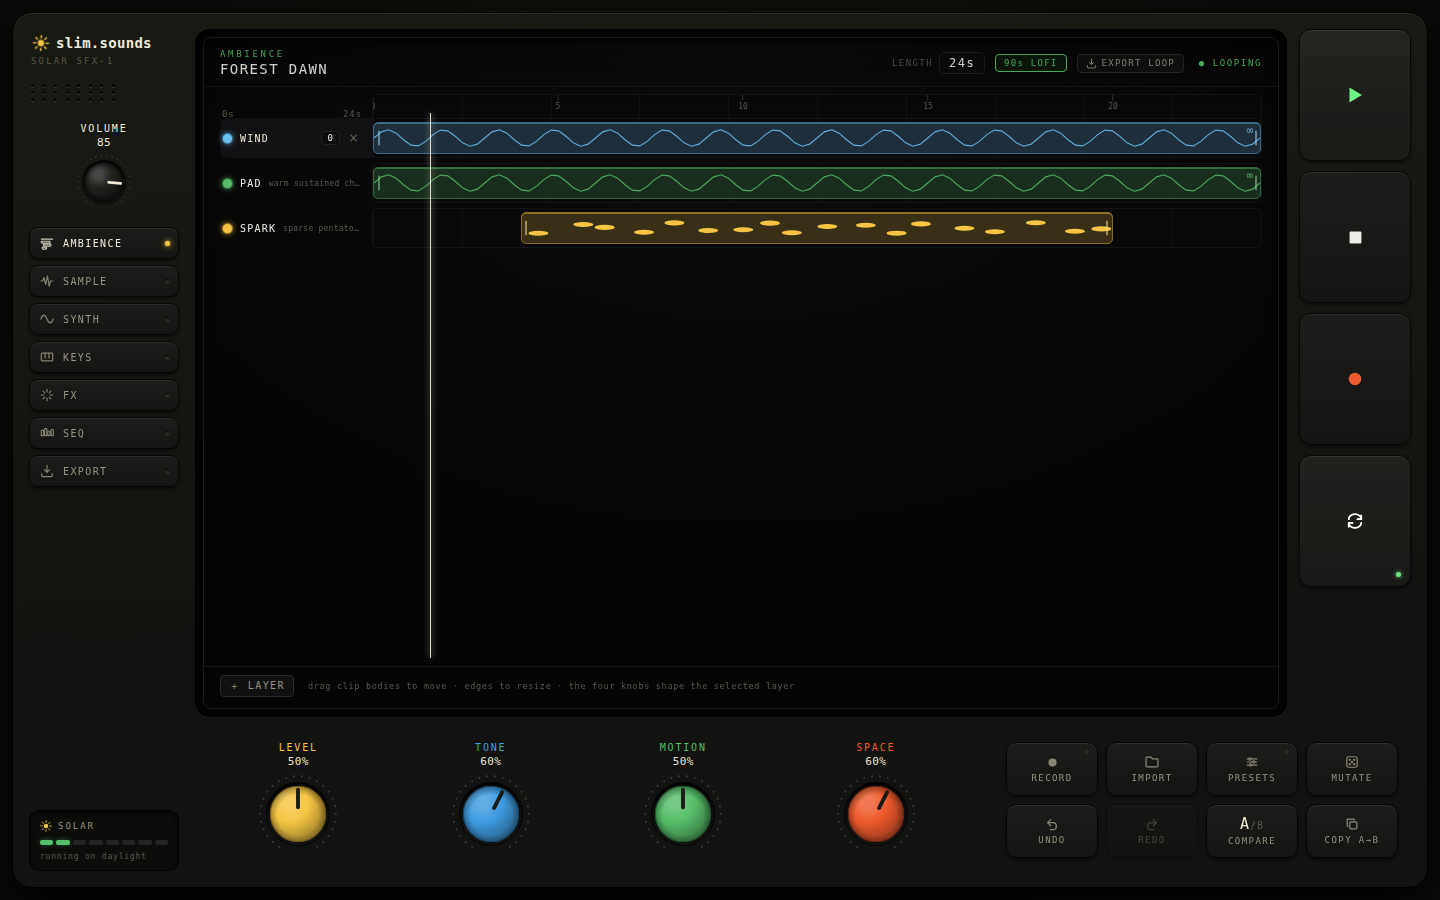
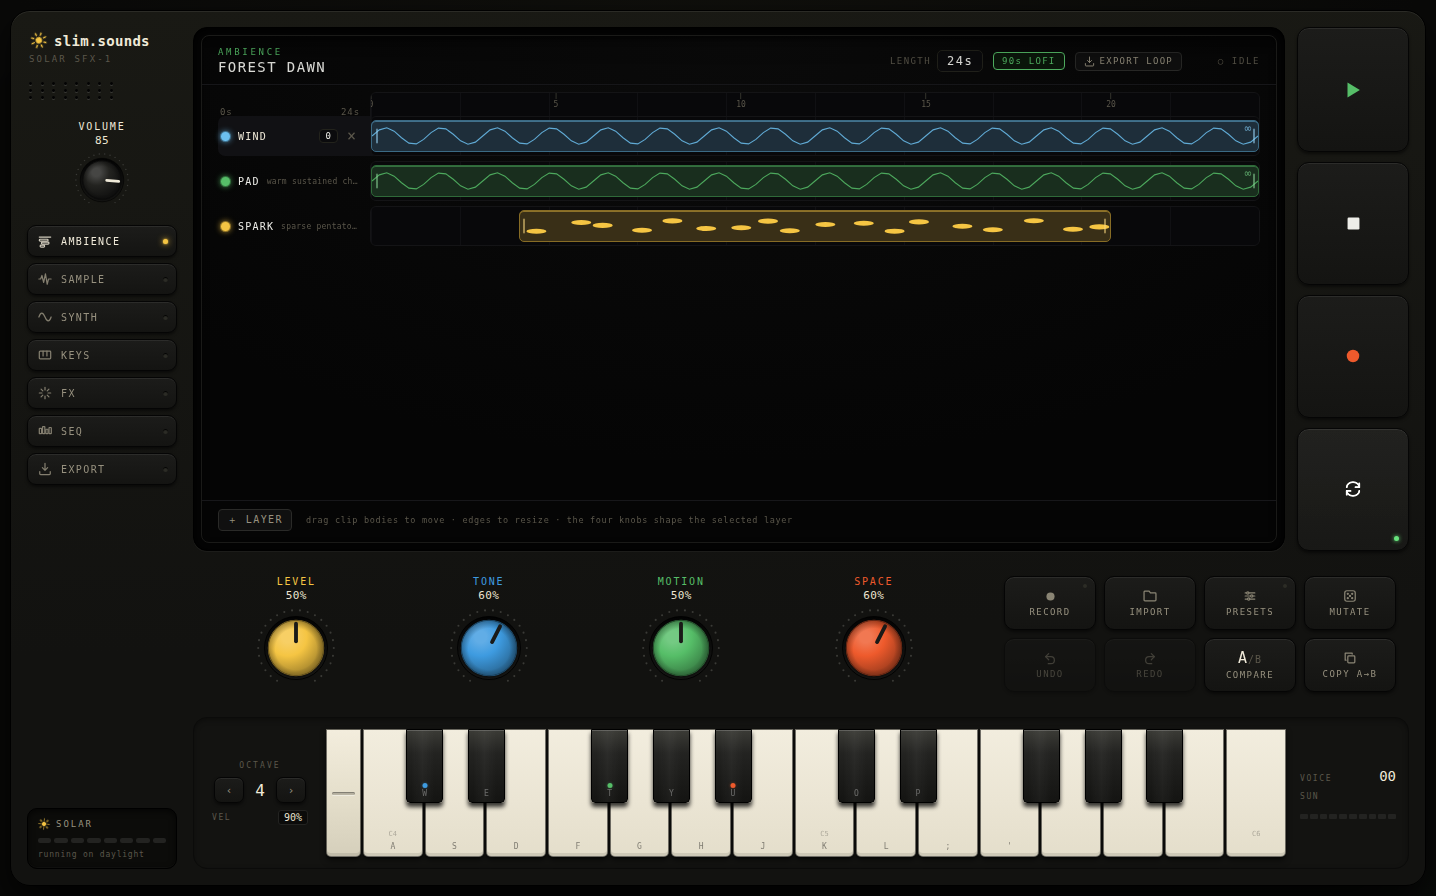
Keep the piano keyboard in AMBIENCE mode
The keyboard was hidden in ambient mode; restore it. In AMBIENCE the piano
now auditions the SELECTED layer at the played pitch — a held key builds
that layer's voice (continuous types sustain with attack/release, discrete
types fire one event) routed through the scene's reverb/lofi bus, so the
laptop keyboard stays the instrument. Note on/off branch by mode; the SFX
synth still plays in the other modes and as a fallback when no layer is
selected. Voices are torn down on stop.

Claude-Session: https://claude.ai/code/session_01QGwMmLLmJhTgmPDfU6UzBt

diff --git a/src/audio/AmbientEngine.ts b/src/audio/AmbientEngine.ts
@@ -47,6 +47,9 @@ class AmbientEngine {
   private nextCycle = 0
   running = false
 
+  // held preview voices played from the piano (independent of the scene loop)
+  private previews = new Map<string, { gen: GenHandle | null; tone: BiquadFilterNode; gain: GainNode; send: GainNode }>()
+
   private ensure() {
     if (this.ctx) return this.ctx
     const ctx = getCtx()
@@ -216,9 +219,58 @@ class AmbientEngine {
     }
   }
 
+  /** Play the given layer's voice at a pitch while a piano key is held. */
+  noteOn(key: string, track: Track, midi: number) {
+    const ctx = this.ensure()
+    this.noteOff(key)
+    const def = LAYER_DEFS[track.type]
+    const tone = ctx.createBiquadFilter(); tone.type = 'lowpass'; tone.Q.value = 0.6
+    tone.frequency.value = toneCutoff(track.tone)
+    const gain = ctx.createGain(); gain.gain.value = 0
+    const send = ctx.createGain(); send.gain.value = track.space
+    tone.connect(gain); gain.connect(this.dryBus!); gain.connect(send); send.connect(this.reverb!)
+    const now = ctx.currentTime
+    if (def.continuous) {
+      const gen = buildContinuous(ctx, track.type, tone, def.base, track.motion, midi)
+      const atk = track.type === 'pad' || track.type === 'drone' || track.type === 'surge' ? 0.3 : 0.12
+      gain.gain.setValueAtTime(0, now)
+      gain.gain.linearRampToValueAtTime(track.level, now + atk)
+      this.previews.set(key, { gen, tone, gain, send })
+    } else {
+      spawnEvent(ctx, track.type, tone, now + 0.01, midi)
+      gain.gain.setValueAtTime(track.level, now)
+      this.previews.set(key, { gen: null, tone, gain, send })
+      window.setTimeout(() => this.noteOff(key), 2800)
+    }
+  }
+
+  noteOff(key: string) {
+    const p = this.previews.get(key)
+    if (!p || !this.ctx) return
+    this.previews.delete(key)
+    const now = this.ctx.currentTime
+    if (p.gen) {
+      p.gain.gain.cancelScheduledValues(now)
+      p.gain.gain.setTargetAtTime(0, now, 0.18)
+      const { gen, tone, gain, send } = p
+      window.setTimeout(() => {
+        gen.stop()
+        try { tone.disconnect(); gain.disconnect(); send.disconnect() } catch { /* noop */ }
+      }, 1000)
+    } else {
+      const { tone, gain, send } = p
+      window.setTimeout(() => { try { tone.disconnect(); gain.disconnect(); send.disconnect() } catch { /* noop */ } }, 200)
+    }
+  }
+
+  private killPreviews() {
+    for (const key of [...this.previews.keys()]) this.noteOff(key)
+  }
+
   stop() {
     if (this.timer !== null) { window.clearInterval(this.timer); this.timer = null }
     this.running = false
+    this.killPreviews()
     const ctx = this.ctx
     if (!ctx) return
     for (const n of this.nodes.values()) {

diff --git a/src/state/store.ts b/src/state/store.ts
@@ -19,7 +19,7 @@ import { renderCurrent } from '../audio/render'
 import { renderScene } from '../audio/ambientRender'
 import { encodeWav } from '../audio/WavEncoder'
 import { buildPreset } from '../audio/presets'
-import { useSceneStore } from './sceneStore'
+import { useSceneStore, selectedTrack } from './sceneStore'
 import { clamp, downloadBlob, sanitizeFilename } from '../utils/misc'
 
 const HISTORY_MAX = 64
@@ -273,11 +273,23 @@ export const useStore = create<AppState>()(
 
     noteOn: (code, midi) => {
       const st = get()
+      if (st.mode === 'ambient') {
+        const track = selectedTrack()
+        if (track) ambientEngine.noteOn(code, track, midi)
+        else engine.noteOn(code, st.patch, st.buffer, midi, st.velocity) // fallback when no layer selected
+        st.heldAdd(midi)
+        return
+      }
       engine.noteOn(code, st.patch, st.buffer, midi, st.velocity)
       st.heldAdd(midi)
     },
 
     noteOff: (code) => {
+      if (get().mode === 'ambient') {
+        ambientEngine.noteOff(code)
+        engine.noteOffKey(code) // also release any fallback synth voice
+        return
+      }
       engine.noteOffKey(code)
     },
 

diff --git a/src/App.tsx b/src/App.tsx
@@ -73,7 +73,7 @@ export default function App() {
             <FunctionGrid />
           </div>
           {mode !== 'ambient' && <StepSeq />}
-          {mode !== 'ambient' && <Piano />}
+          <Piano />
         </div>
       </div>
       {dragOver && (

diff --git a/README.md b/README.md
@@ -25,7 +25,7 @@ Everything runs client-side on the Web Audio API — no backend, no accounts, no
 
 ## The instrument
 
-- **AMBIENCE** — a generative timeline for futuristic ambient beds. Stack up to nine looping **layers** (WIND · DRONE · PAD · RAIN · WATER · HUM · SURGE · SPARK · BELLS), each a live synthesis voice — sustained textures draw as `~~~`, sparse event layers as scattered `* *`. Drag clip bodies to move, edges to resize; the four knobs sculpt the selected layer (LEVEL / TONE / MOTION / SPACE). Press play and the scene loops forever with soft per-clip crossfades. A **90s LOFI** master (tape-ish bitcrush + gentle lowpass + chorus + plate reverb) gives it that early-2000s game-CD feel. **EXPORT LOOP** renders a seamless WAV — game background music, ready to drop in. Eight scene presets (Forest Dawn, Space Station, Rainy Alley, Crystal Cave, Underwater, Menu Loop, Ancient Ruins, Solar Field) are starting points.
+- **AMBIENCE** — a generative timeline for futuristic ambient beds. Stack up to nine looping **layers** (WIND · DRONE · PAD · RAIN · WATER · HUM · SURGE · SPARK · BELLS), each a live synthesis voice — sustained textures draw as `~~~`, sparse event layers as scattered `* *`. Drag clip bodies to move, edges to resize; the four knobs sculpt the selected layer (LEVEL / TONE / MOTION / SPACE). Press play and the scene loops forever with soft per-clip crossfades. A **90s LOFI** master (tape-ish bitcrush + gentle lowpass + chorus + plate reverb) gives it that early-2000s game-CD feel. **EXPORT LOOP** renders a seamless WAV — game background music, ready to drop in. Eight scene presets (Forest Dawn, Space Station, Rainy Alley, Crystal Cave, Underwater, Menu Loop, Ancient Ruins, Solar Field) are starting points. The piano keyboard stays live — play it to audition the selected layer at any pitch through the scene's reverb.
 - **SAMPLE** — record from the mic, drop in audio files (WAV/MP3/OGG/M4A…), then trim, crop, zoom, reverse, normalize, fade, re-pitch and re-speed on a tactile waveform editor.
 - **SYNTH** — two oscillators (sine/tri/saw/square) + noise, a draggable ADSR envelope, and a dedicated **pitch envelope** (the secret to zaps, falls, rises and power-ups).
 - **KEYS** — your laptop keyboard is the instrument. Fully remappable: click a key, assign any note (or just press a key, then tap a piano key to bind it). Layouts save to local storage.
